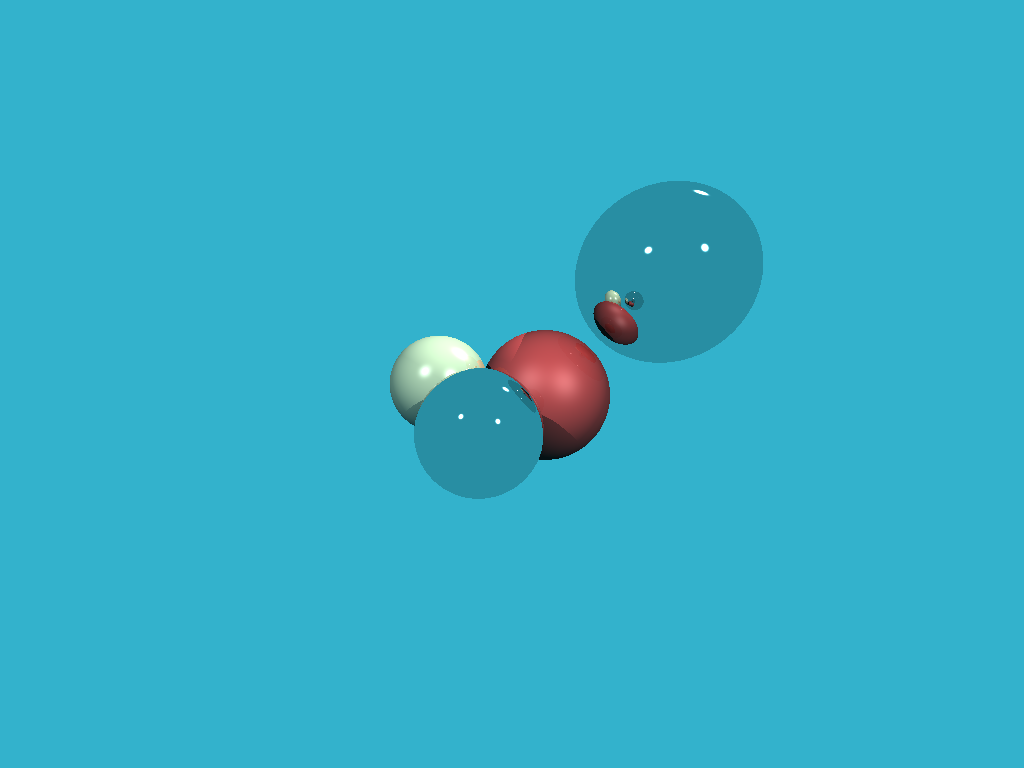
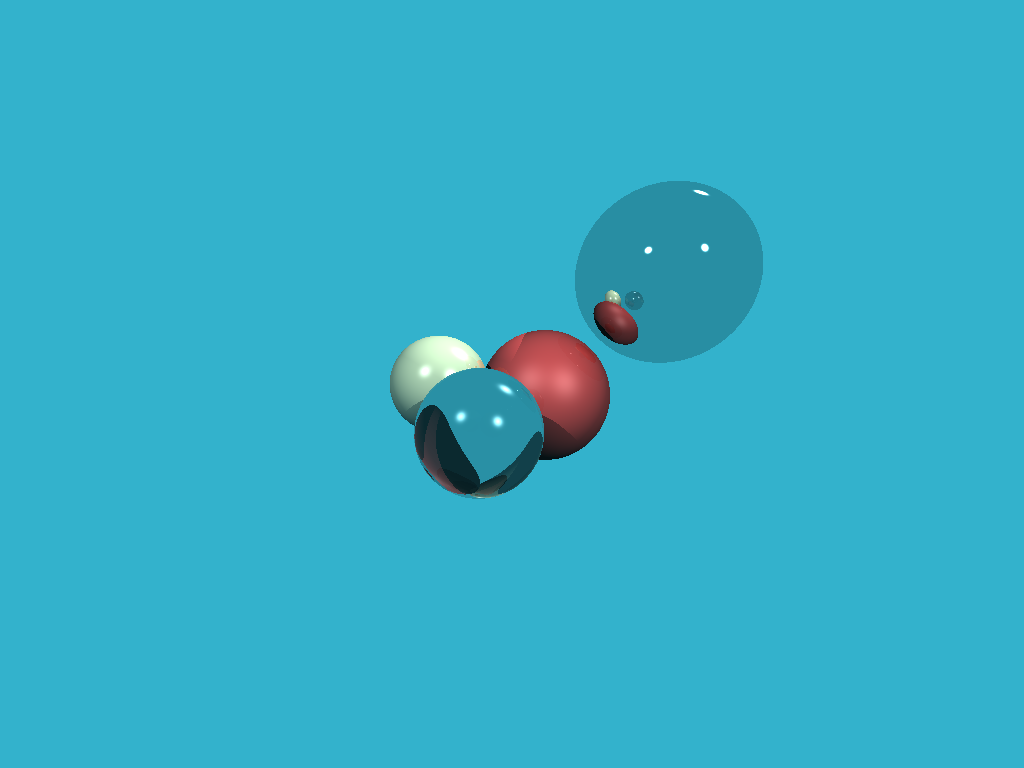
Step 8: Refractions

Changed region(s): [[0.4062, 0.5, 0.5312, 0.6562]]

diff --git a/src/main.rs b/src/main.rs
@@ -1,4 +1,4 @@
-use glam::Vec3;
+use glam::{Vec3, Vec4};
 use image::{Rgb, RgbImage};
 
 const RECURSION_DEPTH: usize = 4;
@@ -36,16 +36,23 @@ impl Light {
 #[derive(Copy, Clone)]
 struct Material {
     diffuse_colour: Vec3,
-    albedo: Vec3,
+    albedo: Vec4,
     specular_exponent: f32,
+    refractive_index: f32,
 }
 
 impl Material {
-    const fn new(diffuse_colour: Vec3, albedo: Vec3, specular_exponent: f32) -> Self {
+    const fn new(
+        diffuse_colour: Vec3,
+        albedo: Vec4,
+        specular_exponent: f32,
+        refractive_index: f32,
+    ) -> Self {
         Material {
             diffuse_colour,
             albedo,
             specular_exponent,
+            refractive_index,
         }
     }
 
@@ -55,12 +62,14 @@ impl Material {
             y: 0.4,
             z: 0.3,
         },
-        Vec3 {
+        Vec4 {
             x: 0.6,
             y: 0.3,
             z: 0.3,
+            w: 0.0,
         },
         50.0,
+        1.0,
     );
 
     const RED_RUBBER: Self = Self::new(
@@ -69,12 +78,14 @@ impl Material {
             y: 0.1,
             z: 0.1,
         },
-        Vec3 {
+        Vec4 {
             x: 0.9,
             y: 0.1,
             z: 0.1,
+            w: 0.0,
         },
         10.0,
+        1.0,
     );
 
     const MIRROR: Self = Self::new(
@@ -83,12 +94,30 @@ impl Material {
             y: 1.0,
             z: 1.0,
         },
-        Vec3 {
+        Vec4 {
             x: 0.0,
             y: 10.0,
             z: 0.8,
+            w: 0.0,
         },
         1425.0,
+        1.0,
+    );
+
+    const GLASS: Self = Self::new(
+        Vec3 {
+            x: 0.6,
+            y: 0.7,
+            z: 0.8,
+        },
+        Vec4 {
+            x: 0.0,
+            y: 0.5,
+            z: 0.1,
+            w: 0.8,
+        },
+        125.0,
+        1.5,
     );
 }
 
@@ -96,8 +125,9 @@ impl Default for Material {
     fn default() -> Self {
         Material {
             diffuse_colour: (0.2, 0.7, 0.8).into(),
-            albedo: (1.0, 0.0, 0.0).into(),
+            albedo: (1.0, 0.0, 0.0, 0.0).into(),
             specular_exponent: 0.0,
+            refractive_index: 0.0,
         }
     }
 }
@@ -166,13 +196,23 @@ fn cast_ray(
     match scene_intersect(origin, direction, spheres) {
         Some((material, point, normal)) => {
             let reflect_dir = reflect(direction, &normal).normalize();
+            let refract_dir = refract(direction, &normal, &material.refractive_index).normalize();
+
             let reflect_origin = if reflect_dir.dot(normal) < 0.0 {
                 point - normal * 1e-3
             } else {
                 point + normal * 1e-3
             };
+            let refract_origin = if refract_dir.dot(normal) < 0.0 {
+                point - normal * 1e-3
+            } else {
+                point + normal * 1e-3
+            };
+
             let reflect_colour =
                 cast_ray(&reflect_origin, &reflect_dir, spheres, lights, depth + 1);
+            let refract_colour =
+                cast_ray(&refract_origin, &refract_dir, spheres, lights, depth + 1);
 
             let mut diffuse_light_intensity: f32 = 0.0;
             let mut specular_light_intensity: f32 = 0.0;
@@ -205,7 +245,8 @@ fn cast_ray(
 
             return material.diffuse_colour * diffuse_light_intensity * material.albedo.x
                 + Vec3::ONE * specular_light_intensity * material.albedo.y
-                + reflect_colour * material.albedo.z;
+                + reflect_colour * material.albedo.z
+                + refract_colour * material.albedo.w;
         }
         None => bg_colour,
     }
@@ -214,6 +255,28 @@ fn cast_ray(
 fn reflect(inverse: &Vec3, normal: &Vec3) -> Vec3 {
     let inverse_dot_norm = inverse.dot(*normal);
     *inverse - 2.0 * (*normal) * inverse_dot_norm
+}
+
+fn refract(incident: &Vec3, normal: &Vec3, refractive_index: &f32) -> Vec3 {
+    let mut cos_i = -f32::max(-1.0, f32::min(1.0, incident.dot(normal.clone())));
+    let mut eta_i = 1.0;
+    let mut eta_t = *refractive_index;
+    let mut n = *normal;
+
+    if cos_i < 0.0 {
+        cos_i = -cos_i;
+        std::mem::swap(&mut eta_i, &mut eta_t);
+        n = -1.0 * n;
+    }
+
+    let eta = eta_i / eta_t;
+    let k = 1.0 - eta * eta * (1.0 - cos_i * cos_i);
+
+    if k < 0.0 {
+        (1.0, 0.0, 0.0).into()
+    } else {
+        *incident * eta + n * (eta * cos_i - f32::sqrt(k))
+    }
 }
 
 fn scene_intersect(
@@ -284,7 +347,7 @@ fn main() -> std::result::Result<(), Box<dyn std::error::Error>> {
     spheres.push(Sphere::new(
         (-1.0, -1.5, -12.0).into(),
         2.0,
-        Material::MIRROR,
+        Material::GLASS,
     ));
     spheres.push(Sphere::new((7.0, 5.0, -18.0).into(), 4.0, Material::MIRROR));
 
